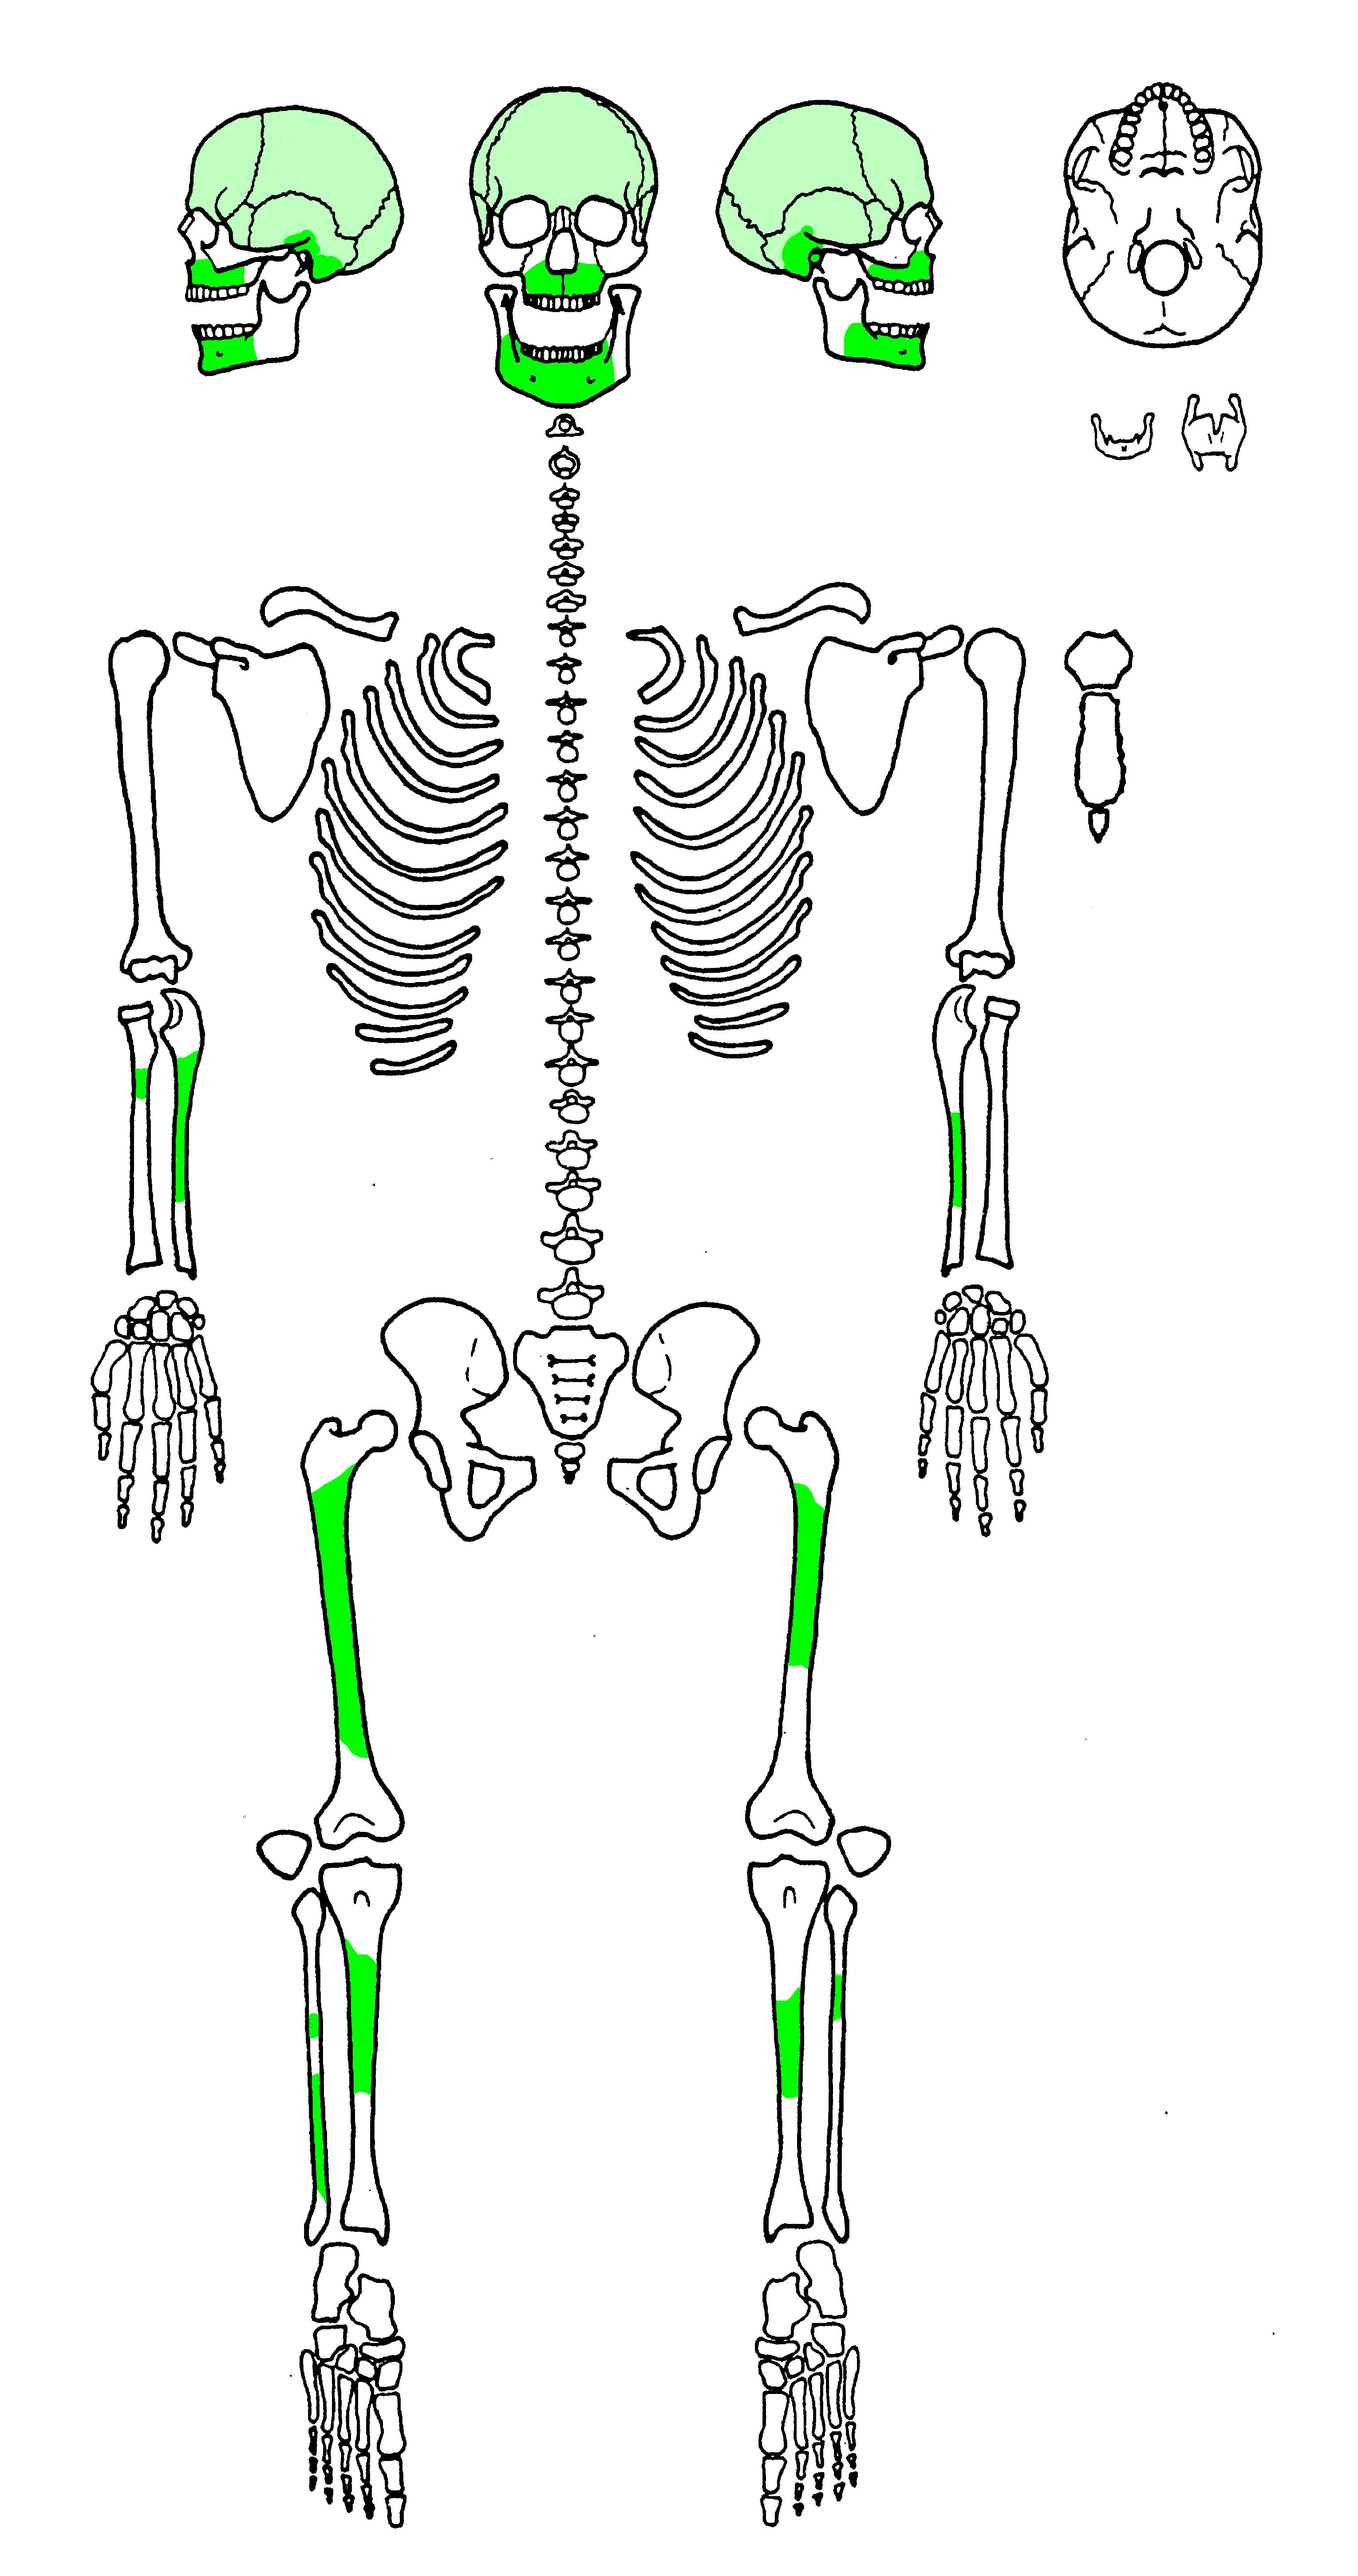
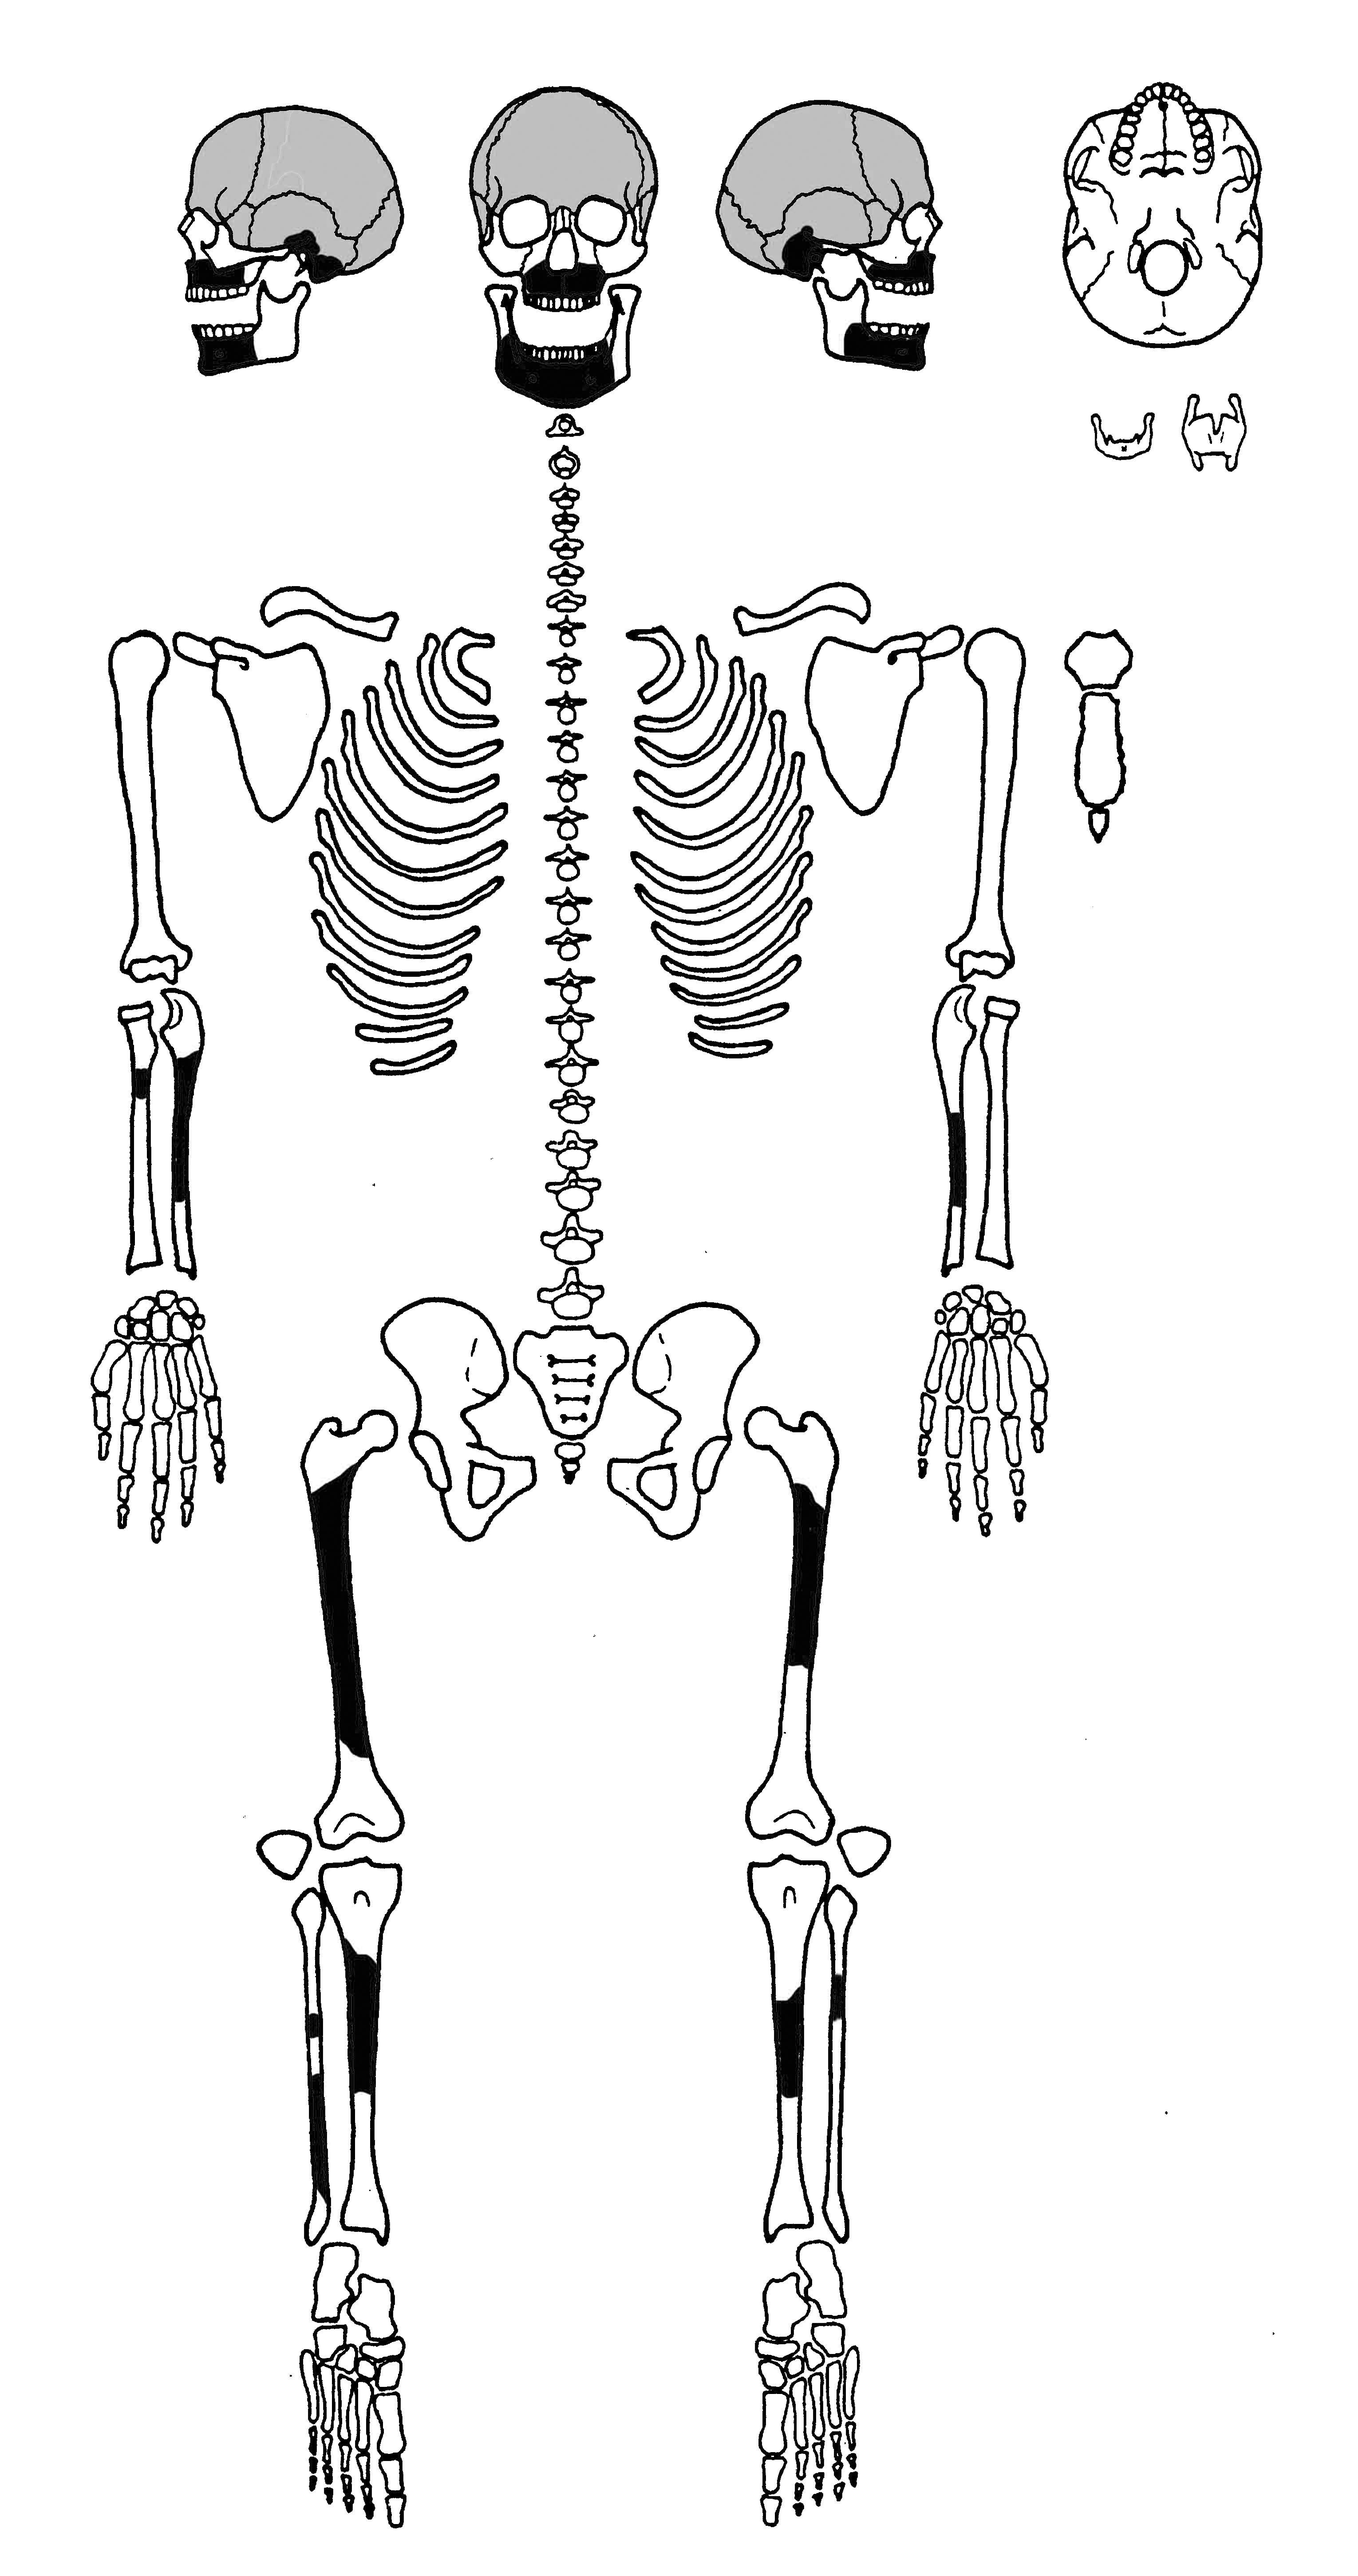
corrected wrong font of url's

diff --git a/chpt/5-4-2_NordKongo.tex b/chpt/5-4-2_NordKongo.tex
@@ -7,7 +7,7 @@
 	\label{fig:LivingstoneSmith2017_noCongoTrad}
 \end{figure*}
 
-Im Zuge des \textit{Boyekoli Ebale Congo}-Projekts wurden 2010 die unteren Abschnitte der Flüsse Lomami, Itimbiri und Aruwimi sowie 2013 des Lindi im nordöstlichen Kongobecken erstmals archäologisch untersucht \parencite[96]{LivingstoneSmith.2017}.\footnote{Die Ziele des \textit{Boyekoli Ebale Congo}-Projekts des \textit{Musée royal de l'Afrique centrale} in Tervuren (MRAC), des \textit{Institut royal des Sciences naturelles de Belgique} (IrSnB) und des \textit{Jardin botanique Meise} sowie der Universität Kinshasa (UNIKIN) lagen in der Untersuchung der Biodiversität entlang des Kongo. Zwischen dem 26.\,04.\,2010 und 26.\,06.\,2010 wurden drei große Zuflüsse des Kongo in seinem nördlichsten Bereich befahren. Die Forschungsmannschaft setzte sich aus 67 Wissenschaftlern der Fachbereiche Zoologie, Botanik, Hydrologie, Geologie, Kartografie, Archäologie und Linguistik zusammen (siehe \url{http://www.congobiodiv.org/en/projects/expeditions/expedition-2010} [Stand 17.\,05.\,2017]). Eine weitere, rein archäologische Untersuchung erfolgte zwischen dem 22.\,01.\,2013 bis 22.\,02.\,2013 \parencites[siehe][]{LivingstoneSmith.2011}{Cornelissen.2013}.\label{ftn:BoyekoliEbaleCongo}} Im Zuge der einzelnen Maßnahmen konnten insgesamt 14 Befunde an acht unterschiedlichen Fundstellen ausgegraben und dokumentiert werden \parencite[98 Tab.~1]{LivingstoneSmith.2017}. Eine in Bomane Yangwa am unteren Aruwimi untersuchte Grube (YNG/10/II) weist starke Ähnlichkeiten zu den Keramikdeponierungen des Inneren Kongobeckens auf \parencites[13 Abb.~2]{LivingstoneSmith.2011}[siehe][]{Wotzka.1993}. Der zirka 0,8\,m tiefe Befund weist eine stark mit kompletten Gefäßen oder Gefäßfragmenten \parencites[siehe][14 Abb.~3]{LivingstoneSmith.2011}[112 Abb.~24.4]{LivingstoneSmith.2017} durchsetzte innere Verfüllung auf, während eine diesen Bereich umgebende äußere Zone kaum Funde enthielt. Eine im unteren Bereich der an Gefäßfragmenten reichen inneren Verfüllung entnommene Radiokohlenstoffdatierung stellt den Befund in das 4.--1. Jh. v.~Chr. (ebd. 98 Tab.~1: Poz-39122). Eine ebenfalls in das 4.--1. Jh. v.~Chr. datierende Grube (ebd. 98 Tab.~1: Poz-57246, Poz-57248) fand sich in Baombi~II am Lindi (BAO/13/I; ebd. 101\,f.). Das keramische Fundgut, das ebenfalls aus großen, eng gepackten Gefäßteilen besteht (ebd. 102 Abb.~10, 18 Abb.~24.5), entspricht formal jenem aus Bomane Yangwa. Beide Inventare sowie Funde aus Ilambi Moke und Yandjambi am Lomami spiegeln zusammen die älteste von drei Hauptphasen wider, die durch diese ersten Feldarbeiten im nordöstlichen Kongobecken herausgearbeitet werden konnten (ebd. 110--112). Die Keramik dieser ältesten Phase zeichnet sich durch langovale Grundformen mit konvexen Schulterbereichen und flachen Standböden sowie einer Verzierung im Schulterbereich der Gefäße aus, das aus horizontalen Bändern aus Rillen in Zickzack- oder Fischgrät-Muster (Tab.~\ref{tab:Verzierungselemente}: 01.6--8) sowie Kammwiegeband (Tab.~\ref{tab:Verzierungselemente}: 04.1) besteht (ebd. 111 Abb.~23, 18 Abb.~24). Die Keramik weist häufig Schamott-Magerung auf und Makrospuren deuten auf eine Herstellung durch Treiben hin (ebd. 110--112). Die entsprechenden Merkmale werden von \textsc{\mbox{Livingstone} \mbox{Smith}} (ebd. 110) unter Vorbehalt mit der etwa zeitgleichen Keramik der Imbonga-Gruppe des Inneren Kongobeckens \parencite[59--68]{Wotzka.1995} in Zusammenhang gebracht. Es muss darauf hingewiesen werden, dass die Keramik der ältesten Phase des nordöstlichen Kongobeckens jedoch eher formale Ähnlichkeiten zu der im Zuge dieser Arbeit erstmals beschriebenen \mbox{Ngbanja}-Keramik aufweist (Kap.~\ref{sec:NGB-Gr} mit Abb.~\ref{fig:NGB_Typverteter}). Gerade die langovalen Grundformen und der Fokus der Verzierungen auf horizontale Bänder im Schulterbereich, wobei die Gefäßunterteile frei von Verzierungen sind, finden sich eher bei der frühen Keramik des mittleren \mbox{Ubangi} als in der Imbonga-Keramik des Inneren Kongbeckens, deren Gefäßunterteile und Standflächen systematisch mit Kamm-Wiegeband verziert sind (ebd. 65). Auch die für die Imbonga-Keramik typischen plastischen Verzierungselemente finden sich in dem von \textcite[112 Abb.~24]{LivingstoneSmith.2017} präsentierten Material nicht.\footnote{Einzelne aus dem Inneren Kongobecken stammende Keramikobjekte können unter Vorbehalt als potenzielle Vergleiche für das Material der älteren Phase des nordöstlichen Kongobeckens herangezogen werden. Insbesondere der Standringboden eines Gefäßes aus Bomane Yangwa \parencites[14 Abb.~3]{LivingstoneSmith.2011} weist eine grundsätzliche Ähnlichkeit zu Gefäßen der Imbonga-Gruppe aus Bokele (Fpl.~14), Bokuma (Fpl.~18) sowie Imbonga (Fpl.~43) auf \parencite[453 Taf.~19.4, 6, 9, 470 Taf.~36.12, 471 Taf.~37.7, 490 Taf.~56.2]{Wotzka.1995}.} Aufgrund von fünf Radiokohlenstoffdatierungen wird das keramische Material der ältesten Phase von \textcite[111 Abb.~23]{LivingstoneSmith.2017} hinreichend sicher in das 4. Jh. v.~Chr. bis 1.~Jh. n.~Chr. datiert.
+Im Zuge des \textit{Boyekoli Ebale Congo}-Projekts wurden 2010 die unteren Abschnitte der Flüsse Lomami, Itimbiri und Aruwimi sowie 2013 des Lindi im nordöstlichen Kongobecken erstmals archäologisch untersucht \parencite[96]{LivingstoneSmith.2017}.\footnote{Die Ziele des \textit{Boyekoli Ebale Congo}-Projekts des \textit{Musée royal de l'Afrique centrale} in Tervuren (MRAC), des \textit{Institut royal des Sciences naturelles de Belgique} (IrSnB) und des \textit{Jardin botanique Meise} sowie der Universität Kinshasa (UNIKIN) lagen in der Untersuchung der Biodiversität entlang des Kongo. Zwischen dem 26.\,04.\,2010 und 26.\,06.\,2010 wurden drei große Zuflüsse des Kongo in seinem nördlichsten Bereich befahren. Die Forschungsmannschaft setzte sich aus 67 Wissenschaftlern der Fachbereiche Zoologie, Botanik, Hydrologie, Geologie, Kartografie, Archäologie und Linguistik zusammen (siehe \url{http://www.congobiodiv.org/en/projects/expeditions/expedition-2010} [Stand 17.\,05.\,2017]). Eine weitere, rein archäologische Untersuchung erfolgte zwischen dem 22.\,01.\,2013 bis 22.\,02.\,2013 \parencites[siehe][]{LivingstoneSmith.2011}{Cornelissen.2013}.\label{ftn:BoyekoliEbaleCongo}\linebreak} Im Zuge der einzelnen Maßnahmen konnten insgesamt 14 Befunde an acht unterschiedlichen Fundstellen ausgegraben und dokumentiert werden \parencite[98 Tab.~1]{LivingstoneSmith.2017}. Eine in Bomane Yangwa am unteren Aruwimi untersuchte Grube (YNG/10/II) weist starke Ähnlichkeiten zu den Keramikdeponierungen des Inneren Kongobeckens auf \parencites[13 Abb.~2]{LivingstoneSmith.2011}[siehe][]{Wotzka.1993}. Der zirka 0,8\,m tiefe Befund weist eine stark mit kompletten Gefäßen oder Gefäßfragmenten \parencites[siehe][14 Abb.~3]{LivingstoneSmith.2011}[112 Abb.~24.4]{LivingstoneSmith.2017} durchsetzte innere Verfüllung auf, während eine diesen Bereich umgebende äußere Zone kaum Funde enthielt. Eine im unteren Bereich der an Gefäßfragmenten reichen inneren Verfüllung entnommene Radiokohlenstoffdatierung stellt den Befund in das 4.--1. Jh. v.~Chr. (ebd. 98 Tab.~1: Poz-39122). Eine ebenfalls in das 4.--1. Jh. v.~Chr. datierende Grube (ebd. 98 Tab.~1: Poz-57246, Poz-57248) fand sich in Baombi~II am Lindi (BAO/13/I; ebd. 101\,f.). Das keramische Fundgut, das ebenfalls aus großen, eng gepackten Gefäßteilen besteht (ebd. 102 Abb.~10, 18 Abb.~24.5), entspricht formal jenem aus Bomane Yangwa. Beide Inventare sowie Funde aus Ilambi Moke und Yandjambi am Lomami spiegeln zusammen die älteste von drei Hauptphasen wider, die durch diese ersten Feldarbeiten im nordöstlichen Kongobecken herausgearbeitet werden konnten (ebd. 110--112). Die Keramik dieser ältesten Phase zeichnet sich durch langovale Grundformen mit konvexen Schulterbereichen und flachen Standböden sowie einer Verzierung im Schulterbereich der Gefäße aus, das aus horizontalen Bändern aus Rillen in Zickzack- oder Fischgrät-Muster (Tab.~\ref{tab:Verzierungselemente}: 01.6--8) sowie Kammwiegeband (Tab.~\ref{tab:Verzierungselemente}: 04.1) besteht (ebd. 111 Abb.~23, 18 Abb.~24). Die Keramik weist häufig Schamott-Magerung auf und Makrospuren deuten auf eine Herstellung durch Treiben hin (ebd. 110--112). Die entsprechenden Merkmale werden von \textsc{\mbox{Livingstone} \mbox{Smith}} (ebd. 110) unter Vorbehalt mit der etwa zeitgleichen Keramik der Imbonga-Gruppe des Inneren Kongobeckens \parencite[59--68]{Wotzka.1995} in Zusammenhang gebracht. Es muss darauf hingewiesen werden, dass die Keramik der ältesten Phase des nordöstlichen Kongobeckens jedoch eher formale Ähnlichkeiten zu der im Zuge dieser Arbeit erstmals beschriebenen \mbox{Ngbanja}-Keramik aufweist (Kap.~\ref{sec:NGB-Gr} mit Abb.~\ref{fig:NGB_Typverteter}). Gerade die langovalen Grundformen und der Fokus der Verzierungen auf horizontale Bänder im Schulterbereich, wobei die Gefäßunterteile frei von Verzierungen sind, finden sich eher bei der frühen Keramik des mittleren \mbox{Ubangi} als in der Imbonga-Keramik des Inneren Kongbeckens, deren Gefäßunterteile und Standflächen systematisch mit Kamm-Wiegeband verziert sind (ebd. 65). Auch die für die Imbonga-Keramik typischen plastischen Verzierungselemente finden sich in dem von \textcite[112 Abb.~24]{LivingstoneSmith.2017} präsentierten Material nicht.\footnote{Einzelne aus dem Inneren Kongobecken stammende Keramikobjekte können unter Vorbehalt als potenzielle Vergleiche für das Material der älteren Phase des nordöstlichen Kongobeckens herangezogen werden. Insbesondere der Standringboden eines Gefäßes aus Bomane Yangwa \parencites[14 Abb.~3]{LivingstoneSmith.2011} weist eine grundsätzliche Ähnlichkeit zu Gefäßen der Imbonga-Gruppe aus Bokele (Fpl.~14), Bokuma (Fpl.~18) sowie Imbonga (Fpl.~43) auf \parencite[453 Taf.~19.4, 6, 9, 470 Taf.~36.12, 471 Taf.~37.7, 490 Taf.~56.2]{Wotzka.1995}.} Aufgrund von fünf Radiokohlenstoffdatierungen wird das keramische Material der ältesten Phase von \textcite[111 Abb.~23]{LivingstoneSmith.2017} hinreichend sicher in das 4. Jh. v.~Chr. bis 1.~Jh. n.~Chr. datiert.
 
 An dieses Material schließen sich -- basierend auf den vorliegenden Datierungen -- formal andersartige Gefäße an, die einer in das 1. bis frühe 5. Jh. n.~Chr. datierenden mittleren Phasen zugerechnet werden (ebd. 111 Abb.~23). Die entsprechenden Stücke zeichnen sich durch höhere Anteile von Quarz und in wenigen Fällen auch Schamott im Scherben sowie Gefäßformen mit deutlich geschweifter Wandung aus (ebd. 110, 113 Abb.~25). Auffällig sind abgesetzte Schulterbereiche und ausgedünnte Ränder. Die Verzierungen bestehen vornehmlich aus in Wiegetechnik erzeugten Bändern (Tab.~\ref{tab:Verzierungselemente}: 04.1--2) und verschiedenen Eindrücken mit einzinkigen Geräten oder Kämmen. Entsprechende Funde lassen sich stromab noch bis in die Nähe von Lisala beobachten.\footnote{Eine Randscherbe mit ausbiegendem Rand und einbiegender Randlippe, die mit Kammwiegeband verziert ist und der mittleren, von Livingstone Smith u.\,a. (2017, 110\,f., 113 Abb.~25.8) beschriebenen keramischen Phase zugerechnet werden kann, findet sich in den Beständen der \textit{Musées Universitaires des Départements de Préhistoires et d'Archéologie de l'Université de Kinshasa} (UNIKIN; siehe Anm.~\ref{ftn:IleMimosas}).} Mit Ausnahme leichter Ähnlichkeiten der Randgestaltung der Bokonongo-Keramik (Kap.~\ref{sec:BOG-Gr}) des südlichen Teils des Arbeitsgebiets, lassen sich keine Parallelen zu gegenwärtig bekannten Stilgruppen erkennen.
 

diff --git a/chpt/KatA3_MLB85_1-4-3.tex b/chpt/KatA3_MLB85_1-4-3.tex
@@ -65,7 +65,7 @@ Die Eingrabung ließ sich durch ein Querprofil deutlich erfassen (Abb.~\ref{fig:
 
 \begin{figure*}[p]
 	\begin{minipage}[b]{.4\textwidth}
- 		\caption{MLB 85/1-4-3: Erhaltene Skelettelemente (grün: vorhanden, hellgrün: fragmentiert vorhanden und durch Fotos belegt).}\label{fig:MLB85-1_SekBest_Skelettbild}
+ 		\caption{MLB 85/1-4-3: Erhaltene Skelettelemente (schwarz: vorhanden, grau: fragmentiert vorhanden und durch Fotos belegt).}\label{fig:MLB85-1_SekBest_Skelettbild}
 	\end{minipage}\hfill
 	\begin{minipage}[b]{.55\textwidth}
  		\includegraphics[width=\textwidth]{fig/MLB85-143_Skelettbild_2013-11-09.jpg}

diff --git a/chpt/0_Head.tex b/chpt/0_Head.tex
@@ -137,7 +137,7 @@
 \usepackage{todonotes}				% lässt todo's im code zu
 \usepackage[hidelinks]{hyperref}	% erstellt die farbigen Links im PDF und gibt die Möglichkeit URLs einzugeben
 
-
+\urlstyle{same}
 
 
 % #########################################################
